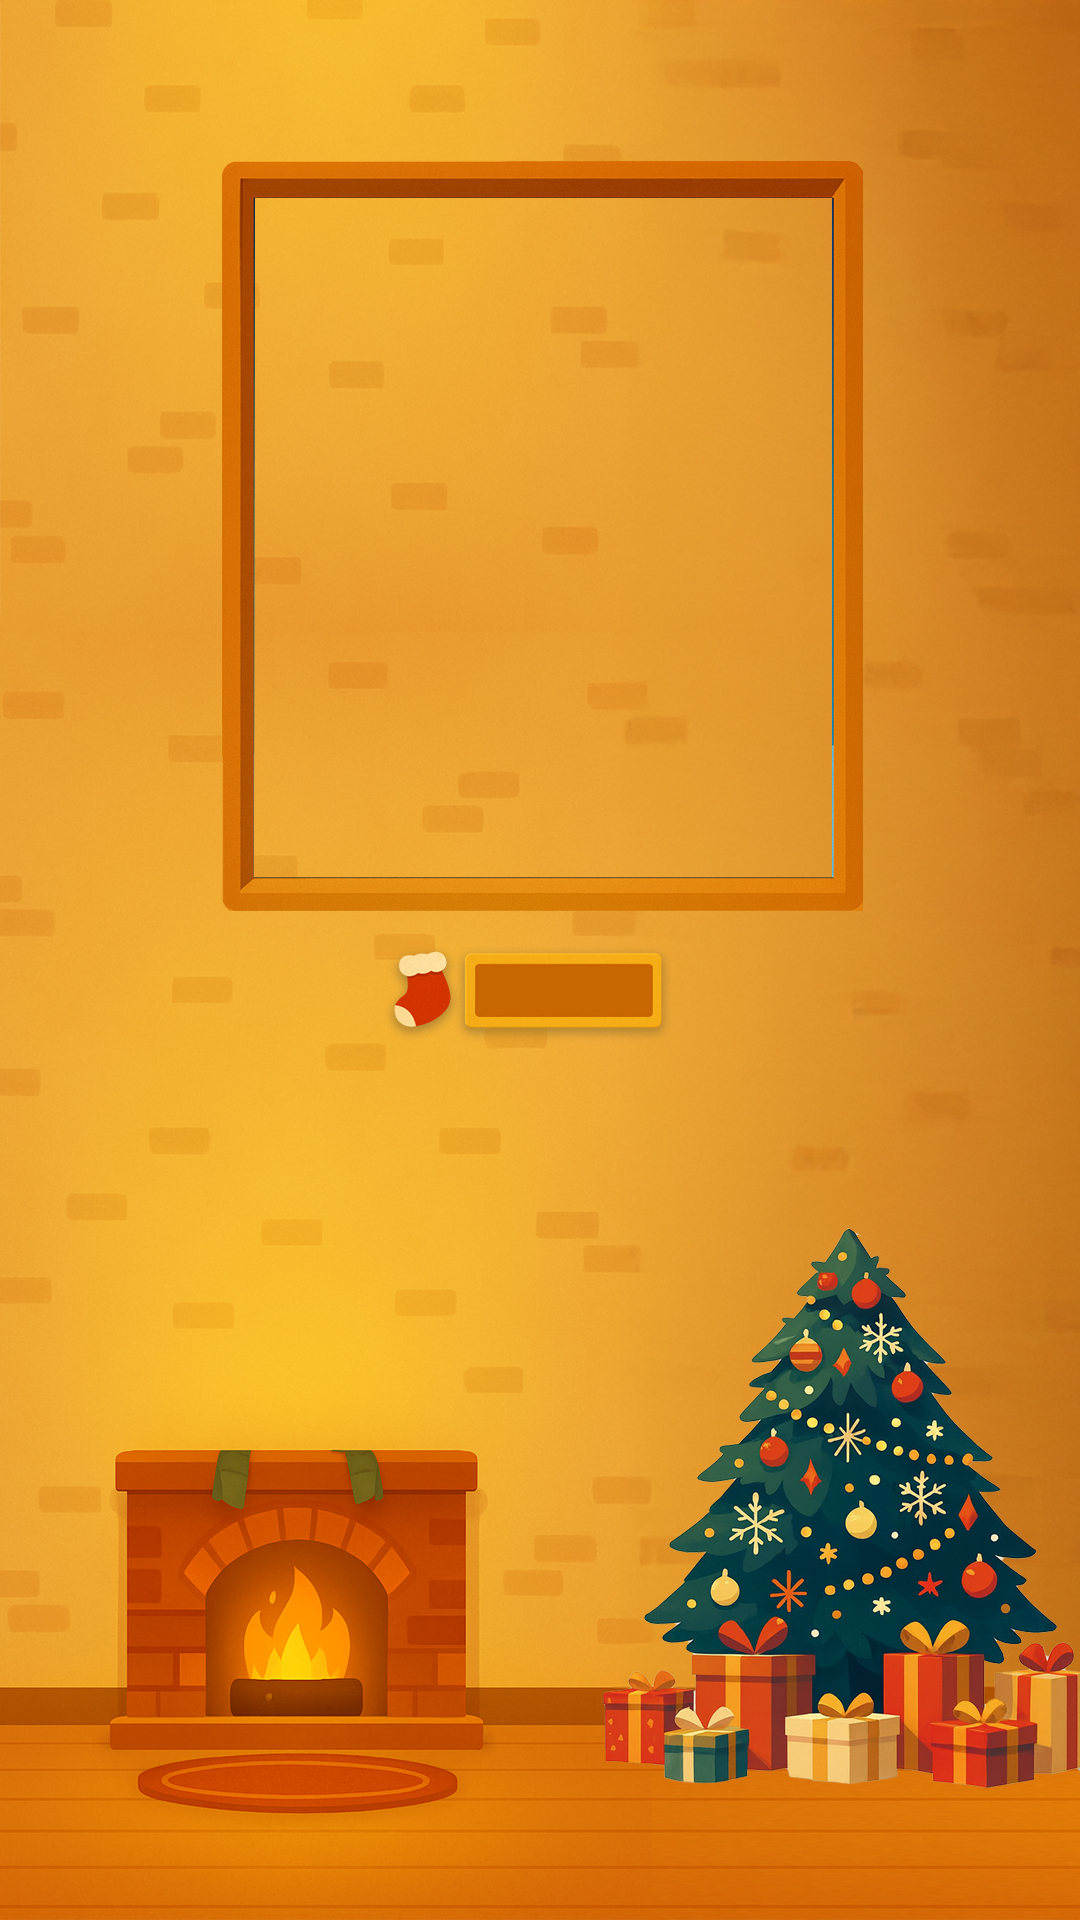
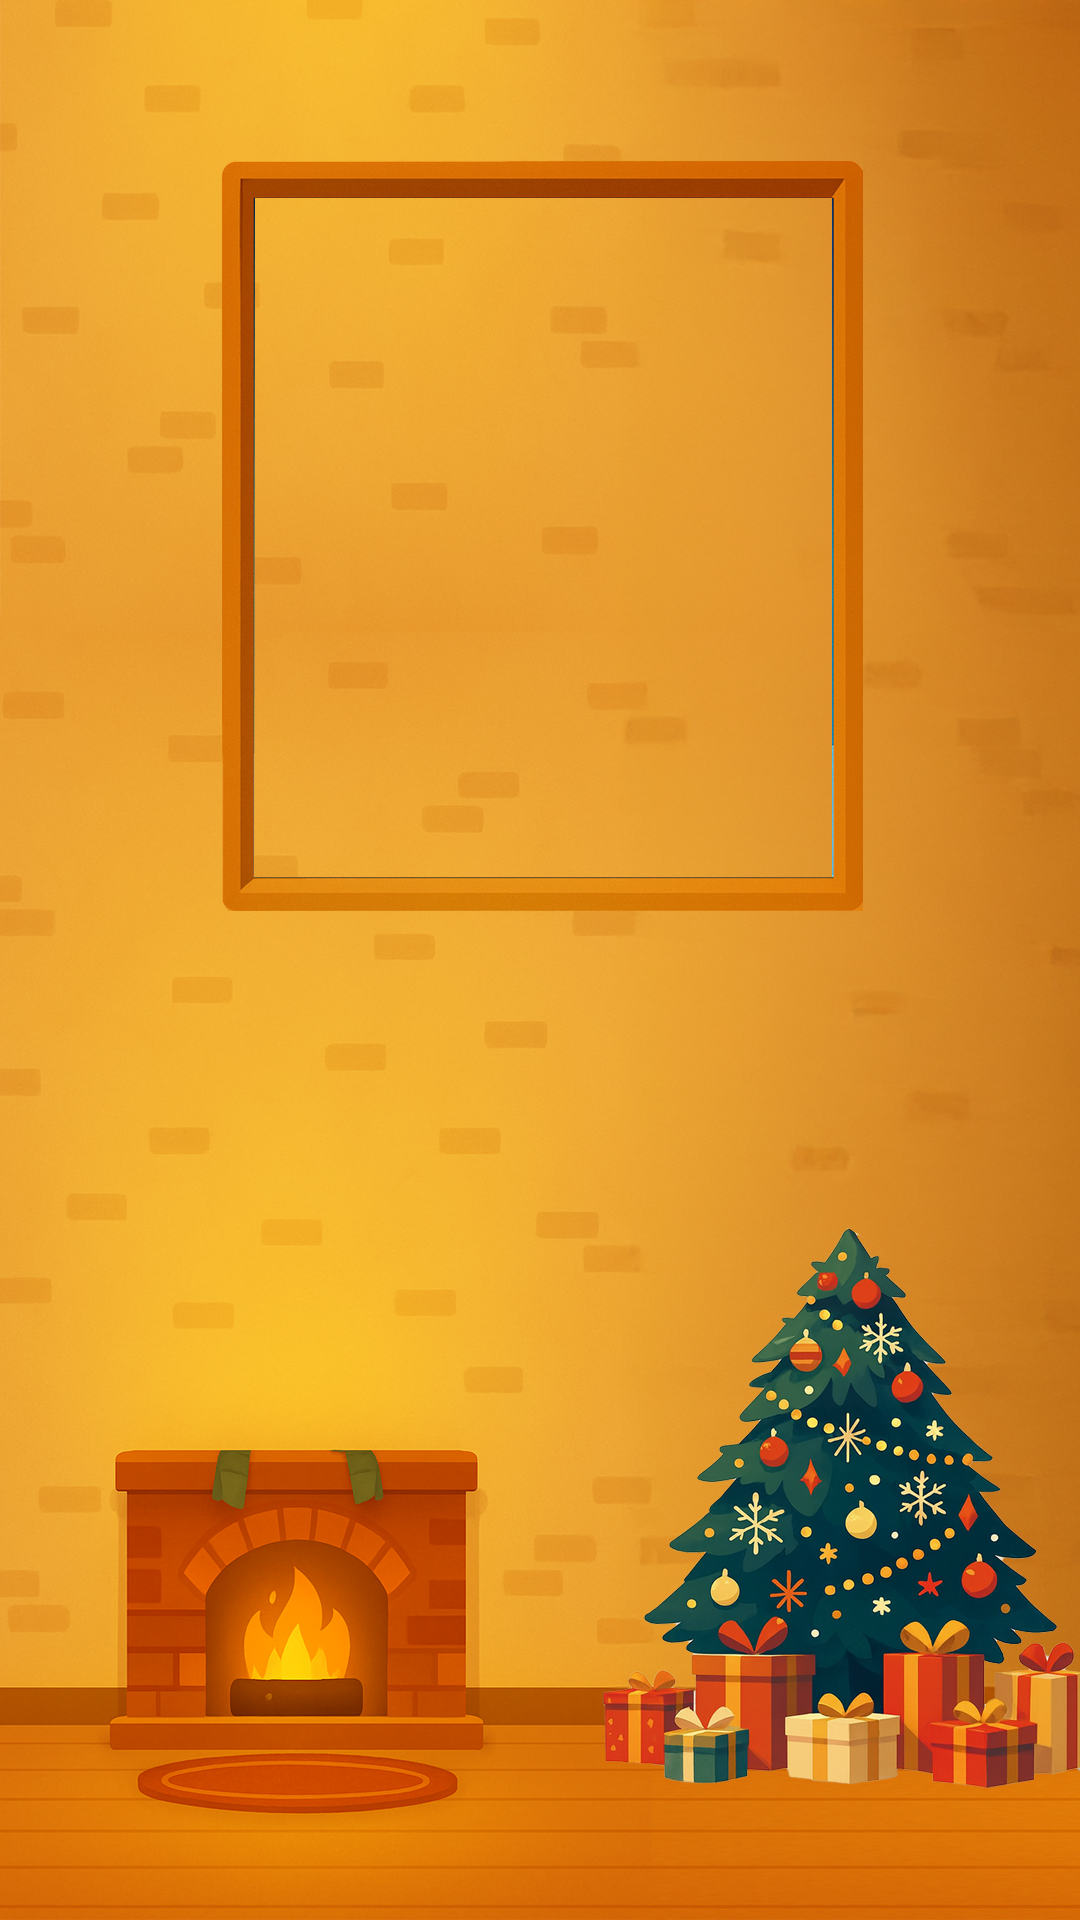
collection.tsx

Changed region(s): [[0.3667, 0.5, 0.6111, 0.5625]]

diff --git a/src/CollectionPage.tsx b/src/CollectionPage.tsx
@@ -74,51 +74,45 @@ const CollectionPage: React.FC<CollectionPageProps> = ({
             alignItems: "center",
           }}
         >
-          {/* 左側壁爐 + 照片 */}
-          <div
+          {/* 照片 1 */}
+          <img
+            src="/happy1.png"
+            alt="Photo 1"
+            onClick={() => setSelectedPhoto("/happy1.png")}
             style={{
               position: "absolute",
               left: isMobile ? "5%" : "8%",
-              top: "20%",
-              display: "flex",
-              flexDirection: "column",
-              gap: "10px",
+              top: "18%",
+              width: isMobile ? "70px" : "110px",
+              height: isMobile ? "47px" : "73px",
+              objectFit: "cover",
+              cursor: "pointer",
+              transition: "transform 0.2s",
+              boxShadow: "0 4px 15px rgba(0,0,0,0.3)",
             }}
-          >
-            {/* 照片 - 無框 */}
-            <img
-              src="/happy1.png"
-              alt="Photo 1"
-              onClick={() => setSelectedPhoto("/happy1.png")}
-              style={{
-                width: isMobile ? "70px" : "110px",
-                height: isMobile ? "47px" : "73px",
-                objectFit: "cover",
-                cursor: "pointer",
-                borderRadius: "8px",
-                transition: "transform 0.2s",
-                boxShadow: "0 4px 15px rgba(0,0,0,0.3)",
-              }}
-              onMouseEnter={(e) => (e.currentTarget.style.transform = "scale(1.1)")}
-              onMouseLeave={(e) => (e.currentTarget.style.transform = "scale(1)")}
-            />
-            <img
-              src="/happy2.png"
-              alt="Photo 2"
-              onClick={() => setSelectedPhoto("/happy2.png")}
-              style={{
-                width: isMobile ? "70px" : "110px",
-                height: isMobile ? "47px" : "73px",
-                objectFit: "cover",
-                cursor: "pointer",
-                borderRadius: "8px",
-                transition: "transform 0.2s",
-                boxShadow: "0 4px 15px rgba(0,0,0,0.3)",
-              }}
-              onMouseEnter={(e) => (e.currentTarget.style.transform = "scale(1.1)")}
-              onMouseLeave={(e) => (e.currentTarget.style.transform = "scale(1)")}
-            />
-          </div>
+            onMouseEnter={(e) => (e.currentTarget.style.transform = "scale(1.05)")}
+            onMouseLeave={(e) => (e.currentTarget.style.transform = "scale(1)")}
+          />
+
+          {/* 照片 2 */}
+          <img
+            src="/happy2.png"
+            alt="Photo 2"
+            onClick={() => setSelectedPhoto("/happy2.png")}
+            style={{
+              position: "absolute",
+              left: isMobile ? "5%" : "8%",
+              top: "30%",
+              width: isMobile ? "70px" : "110px",
+              height: isMobile ? "47px" : "73px",
+              objectFit: "cover",
+              cursor: "pointer",
+              transition: "transform 0.2s",
+              boxShadow: "0 4px 15px rgba(0,0,0,0.3)",
+            }}
+            onMouseEnter={(e) => (e.currentTarget.style.transform = "scale(1.05)")}
+            onMouseLeave={(e) => (e.currentTarget.style.transform = "scale(1)")}
+          />
 
           {/* 中間相框區域 */}
           <div
@@ -184,13 +178,14 @@ const CollectionPage: React.FC<CollectionPageProps> = ({
                   style={{
                     position: "absolute",
                     top: animationPhase === "dropping" ? "-150px" : "auto",
-                    bottom: animationPhase === "landed" ? "10%" : "auto",
+                    bottom: animationPhase === "landed" ? "30%" : "auto",
                     left: "50%",
                     transform: "translateX(-50%)",
                     width: isMobile ? "40px" : "60px",
                     height: isMobile ? "50px" : "75px",
                     animation: animationPhase === "dropping" ? "dropSockSlow 4s ease-in forwards" : "none",
                     zIndex: 100,
+                    objectFit: "contain",
                   }}
                 />
               )}
@@ -250,27 +245,32 @@ const CollectionPage: React.FC<CollectionPageProps> = ({
             paddingBottom: "30px",
           }}
         >
-          {/* 進度條容器（背景圖已包含進度條底） */}
+          {/* 進度條容器 */}
           <div
             style={{
               position: "relative",
-              width: isMobile ? "85%" : "650px",
-              height: "60px",
+              width: isMobile ? "280px" : "420px",
+              height: isMobile ? "50px" : "70px",
+              backgroundImage: "url('/prograssmain.png')",
+              backgroundSize: "100% 100%",
+              backgroundRepeat: "no-repeat",
+              backgroundPosition: "center",
               display: "flex",
-              justifyContent: "space-around",
+              justifyContent: "space-evenly",
               alignItems: "center",
-              padding: "0 30px",
+              padding: "0 15px",
+              boxSizing: "border-box",
             }}
           >
-            {/* 10個進度條 */}
+            {/* 10個進度條平均分佈 */}
             {[...Array(10)].map((_, index) => (
               <img
                 key={index}
                 src={index < litProgress ? "/prograsson.png" : "/prograssoff.png"}
                 alt={`Progress ${index + 1}`}
                 style={{
-                  width: isMobile ? "35px" : "50px",
-                  height: isMobile ? "35px" : "50px",
+                  width: isMobile ? "20px" : "28px",
+                  height: isMobile ? "20px" : "28px",
                   transition: "all 0.5s ease",
                   filter: index < litProgress ? "brightness(1.2)" : "brightness(0.7)",
                 }}
@@ -401,7 +401,7 @@ const CollectionPage: React.FC<CollectionPageProps> = ({
             transform: translateX(-50%) rotate(270deg) scale(0.7);
           }
           100% {
-            top: 60%;
+            bottom: 30%;
             opacity: 1;
             transform: translateX(-50%) rotate(360deg) scale(0.6);
           }
